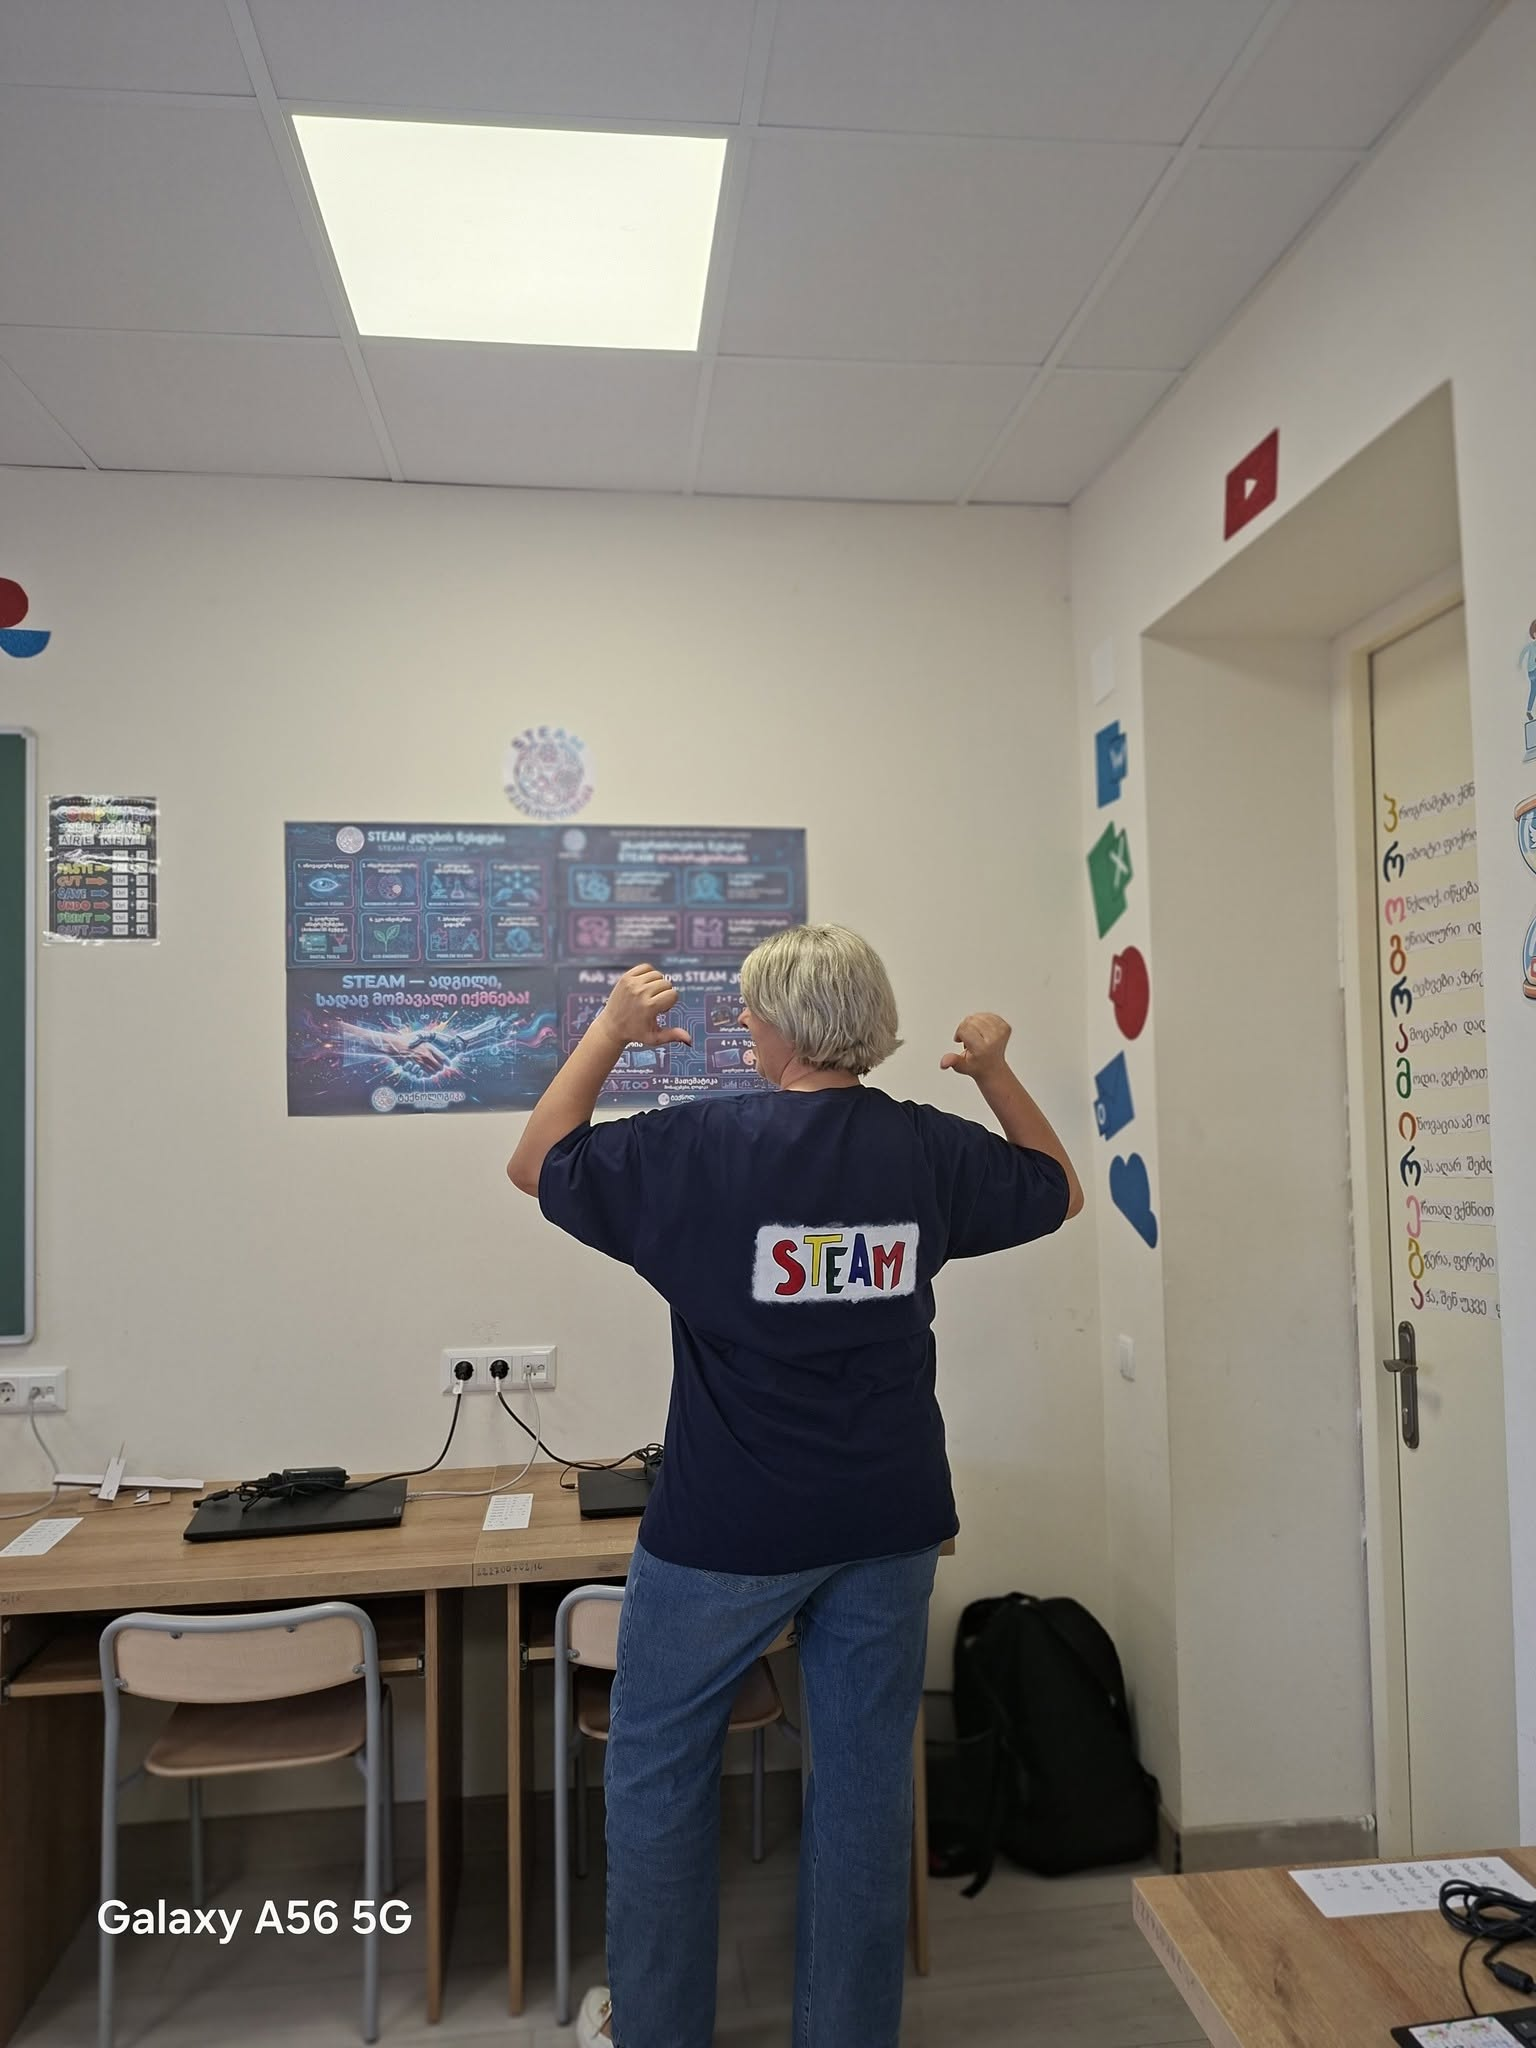
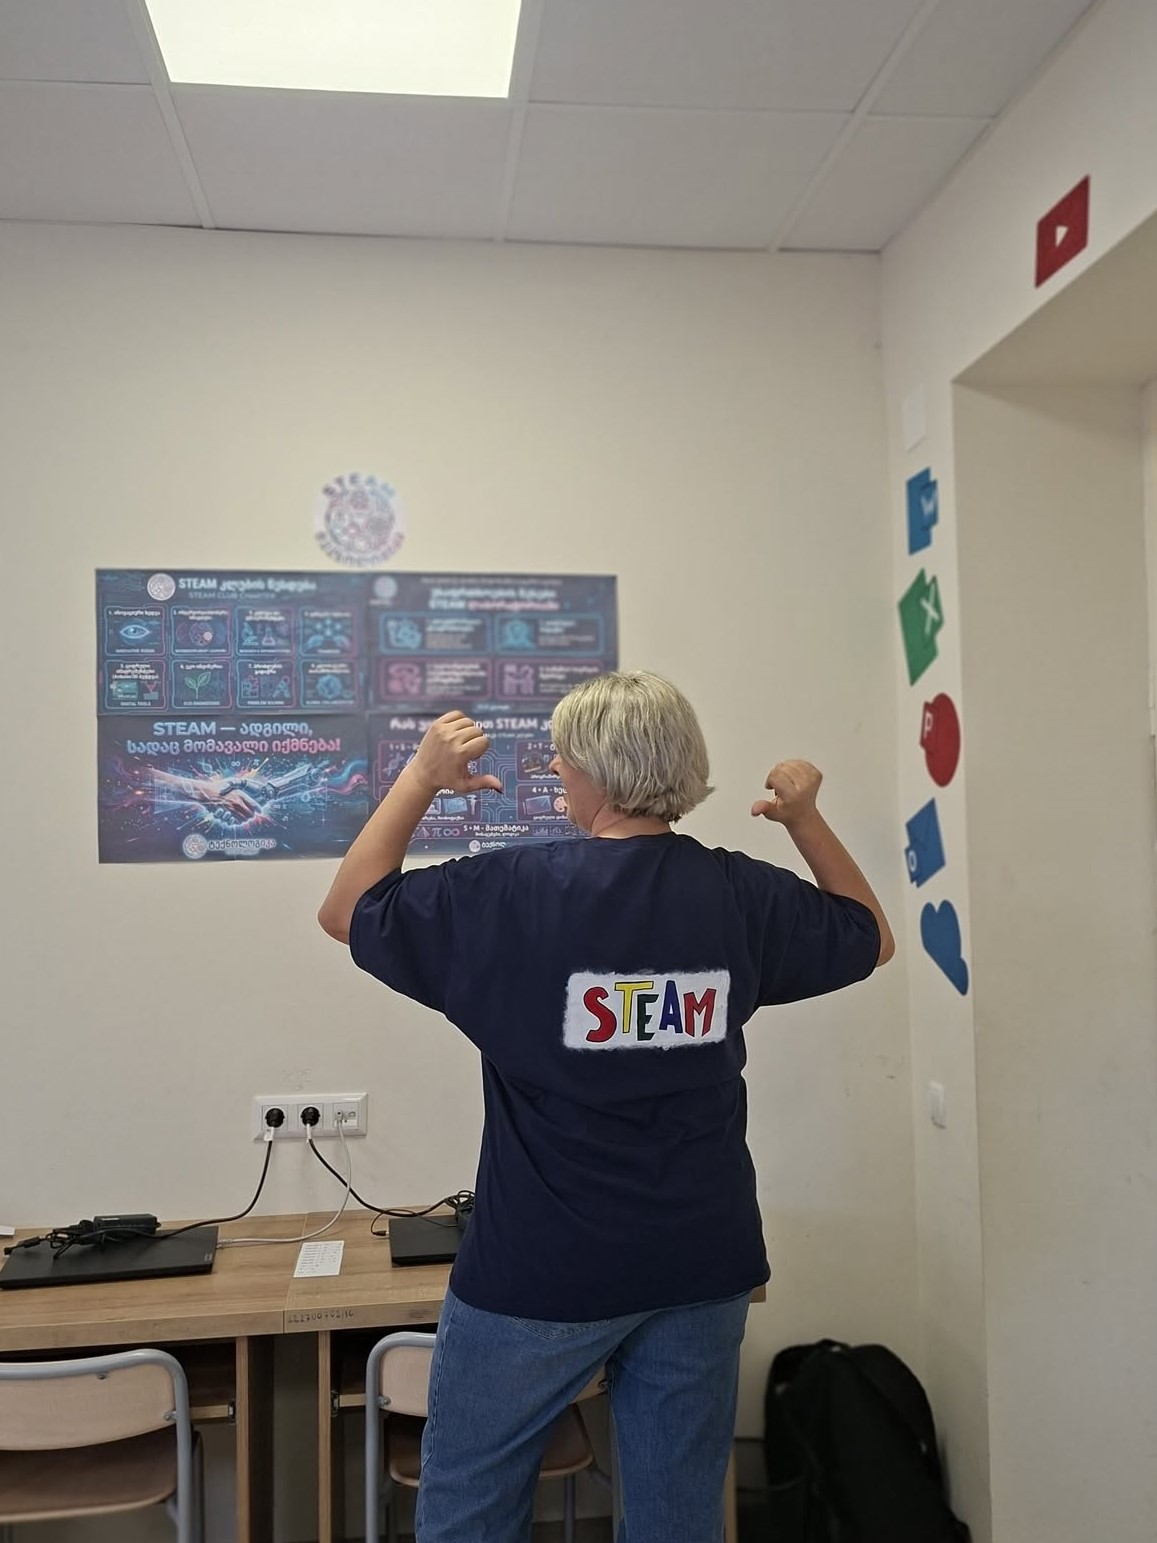
updated

diff --git a/js/main.js b/js/main.js
@@ -5,6 +5,7 @@
 
 const T = {
     ka: {
+        maintitle: "ნატალია გელიტაშვილი",
         home: "მთავარი",
         stem: "STEM კლუბი",
         rob: "რობოტიკის კლუბი",
@@ -16,6 +17,12 @@ const T = {
         h1b: "ტექნოლოგიები",
         h1c: "და ინოვაცია",
 
+        page1: "განათლება / ტექნოლოგია / ინოვაცია",
+
+        section1: "01 / გამოცდილება",
+        section2: "02 / სწავლა და აღმოჩენა",
+        section3: "03 / სიახლეები",
+
         sub: "ნატალია გელიტაშვილი — ტექნოლოგიების მასწავლებელი, STEM და რობოტიკის კლუბების ხელმძღვანელი.",
 
         b1: "ჩემი საქმიანობა",
@@ -23,14 +30,14 @@ const T = {
         photo: "აქ განთავსდება ნატალიას ფოტო (STEM მაისურით)",
 
         s1: "წლიანი სწავლების გამოცდილება",
-        s2: "წელი ტექნოლოგიების სწავლებაში",
-        s3: "მათემატიკის მასწავლებლის გამოცდილება",
+        s2: "წლიანი გამოცდილება ტექნოლოგიების სწავლებაში",
+        s3: "წლიანი გამოცდილება მათემატიკის სწავლებაში",
         s4: "კლუბი: STEM და რობოტიკა",
 
         intro: "მასწავლებელი, რომელიც ტექნოლოგიებს პრაქტიკაში აქცევს",
 
-        g79: "7–9 კლასები",
-        g46: "4–6 კლასები",
+        g79: "VII-IX კლასები",
+        g46: "IV-V-VI კლასები",
 
         latest: "ბოლო სიახლეები",
         empty: "სიახლეები ჯერ არ არის გამოქვეყნებული.",
@@ -46,10 +53,15 @@ const T = {
 
         sent: "შეტყობინება წარმატებით გაიგზავნა.",
         error: "შეცდომა. გთხოვთ, სცადოთ თავიდან.",
-        notConfigured: "სერვისი ჯერ არ არის გამართული."
+        notConfigured: "სერვისი ჯერ არ არის გამართული.",
+
+        stemdesc: "ქიმია · ტექნოლოგია · ინჟინერია · მათემატიკა",
+        robotdesc: "დიზაინი · ინჟინერია · რობოტიკა",
+        view: "გაიცანით კლუბი ↗"
     },
 
     en: {
+        maintitle: "NATALIA GELITASHVILI",
         home: "Home",
         stem: "STEM Club",
         rob: "Robotics Club",
@@ -60,6 +72,12 @@ const T = {
         h1a: "Education,",
         h1b: "Technology",
         h1c: "& Innovation",
+        
+        page1: "EDUCATION / TECHNOLOGY / INNOVATION",
+        
+        section1: "01 / EXPERIENCE",
+        section2: "02 / LEARNING & DISCOVERY",
+        section3: "03 / UPDATES",
 
         sub: "Natalia Gelitashvili — Technology Teacher, STEM and Robotics Club Mentor.",
 
@@ -74,8 +92,8 @@ const T = {
 
         intro: "A teacher who turns technology into hands-on practice",
 
-        g79: "Grades 7–9",
-        g46: "Grades 4–6",
+        g79: "Grades VII-IX",
+        g46: "Grades IV-V-VI",
 
         latest: "Latest news",
         empty: "No news published yet.",
@@ -91,7 +109,11 @@ const T = {
 
         sent: "Your message was sent successfully.",
         error: "An error occurred. Please try again.",
-        notConfigured: "The service is not configured yet."
+        notConfigured: "The service is not configured yet.",
+
+        stemdesc: "SCIENCE · TECHNOLOGY · ENGINEERING · MATHEMATICS",
+        robotdesc: "DESIGN · ENGINEERING · ROBOTICS",
+        view: "Explore club ↗"
     }
 };
 

diff --git a/index.html b/index.html
@@ -20,9 +20,7 @@
     <header>
         <div class="wrap bar">
 
-            <a class="logo" href="index.html">
-                Natalia Gelitashvili<span>.</span>
-            </a>
+            <a class="logo" href="index.html" data-i="maintitle"></a>
 
             <button class="burger" aria-label="Menu" aria-expanded="false">
                 ☰
@@ -76,7 +74,7 @@
 
                 <div class="hero-index">
                     <span>01</span>
-                    <span>EDUCATION / TECHNOLOGY / INNOVATION</span>
+                    <span data-i="page1"></span>
                 </div>
 
             </div>
@@ -89,7 +87,7 @@
             <div class="wrap reveal">
 
                 <div class="section-heading">
-                    <span class="section-label">01 / EXPERIENCE</span>
+                    <span class="section-label" data-i="section1"></span>
                     <h2 data-i="intro"></h2>
                 </div>
 
@@ -126,7 +124,7 @@
         <section class="clubs-section">
 
             <div class="wrap section-heading reveal">
-                <span class="section-label">02 / LEARNING & DISCOVERY</span>
+                <span class="section-label" data-i="section2"></span>
                 <h2 data-i="clubs"></h2>
             </div>
 
@@ -139,9 +137,9 @@
                     <span class="tag" data-i="g79"></span>
 
                     <div class="club-bottom">
-                        <span class="club-description">SCIENCE · TECHNOLOGY · ENGINEERING · MATHEMATICS</span>
+                        <span class="club-description" data-i="stemdesc"></span>
                         <h3>STEM</h3>
-                        <span class="club-link">Explore club ↗</span>
+                        <span class="club-link" data-i="view"></span>
                     </div>
 
                 </a>
@@ -153,9 +151,9 @@
                     <span class="tag" data-i="g46"></span>
 
                     <div class="club-bottom">
-                        <span class="club-description">DESIGN · ENGINEERING · ROBOTICS</span>
+                        <span class="club-description" data-i="robotdesc"></span>
                         <h3>Robotics</h3>
-                        <span class="club-link">Explore club ↗</span>
+                        <span class="club-link" data-i="view"></span>
                     </div>
 
                 </a>
@@ -172,7 +170,7 @@
 
                 <div class="section-heading heading-row">
                     <div>
-                        <span class="section-label">03 / UPDATES</span>
+                        <span class="section-label" data-i="section3"></span>
                         <h2 data-i="latest"></h2>
                     </div>
 

diff --git a/stem.html b/stem.html
@@ -22,7 +22,7 @@
     <header>
         <div class="wrap bar">
 
-            <a class="logo" href="index.html">Natalia Gelitashvili</a>
+            <a class="logo" href="index.html" data-i="maintitle"></a>
 
             <button class="burger" type="button" aria-label="Menu" aria-expanded="false">
                 ☰
@@ -51,8 +51,8 @@
         <section class="page stem">
             <div class="wrap">
                 <h1 data-en="STEM Club">STEM კლუბი</h1>
-                <p data-en="Grades 7–9. A STEM club with group activities, experiments and hands-on projects.">
-                    7–9 კლასები. STEM კლუბი ჯგუფური აქტივობებით, ექსპერიმენტებითა და პრაქტიკული პროექტებით.
+                <p data-en="VII-IX grades. A STEM club with group activities, experiments and hands-on projects.">
+                    VII-IX კლასები. STEM კლუბი ჯგუფური აქტივობებით, ექსპერიმენტებითა და პრაქტიკული პროექტებით.
                 </p>
             </div>
         </section>

diff --git a/robotics.html b/robotics.html
@@ -26,7 +26,7 @@
     <header>
         <div class="wrap bar">
 
-            <a class="logo" href="index.html">Natalia Gelitashvili</a>
+            <a class="logo" href="index.html" data-i="maintitle"></a>
 
             <button class="burger" type="button" aria-label="Menu" aria-expanded="false">
                 ☰
@@ -55,8 +55,8 @@
         <section class="page rob">
             <div class="wrap">
                 <h1 data-en="Robotics Club">Robotics კლუბი</h1>
-                <p data-en="Grades 4–6. A robotics club focused on practical technology activities.">
-                    4–6 კლასები. რობოტიკის კლუბი პრაქტიკული ტექნოლოგიური აქტივობებით.
+                <p data-en="IV-V-VI grades. A robotics club focused on practical technology activities.">
+                    IV-V-VI კლასები. რობოტიკის კლუბი პრაქტიკული ტექნოლოგიური აქტივობებით.
                 </p>
             </div>
         </section>

diff --git a/css/motion.css b/css/motion.css
@@ -43,7 +43,7 @@ html.js .reveal.in h2{clip-path:inset(-.2em -.2em)}
 /* stats */
 .stat{border-left:1px solid var(--line);padding-left:20px}
 html.js .reveal .stat{opacity:0;transform:translateY(30px);transition:.8s}
-html.js .reveal.in .stat{opacity:1;transform:none}
+html.js .reveal.in .stat{opacity:1;transform:none; padding-left: 20px;}
 .stat:nth-child(2){transition-delay:.12s!important}.stat:nth-child(3){transition-delay:.24s!important}.stat:nth-child(4){transition-delay:.36s!important}
 
 /* buttons */

diff --git a/css/docs.css b/css/docs.css
@@ -24,6 +24,7 @@
     display: grid;
     grid-template-columns: auto 1fr auto;
     align-items: center;
+    
     gap: 22px;
     padding: 22px 26px;
     background: #fff;
@@ -45,7 +46,7 @@
 /* Document number */
 
 .doc-n {
-    font: 400 2.2rem/1 "Dachithelynx", sans-serif;
+    font: 400 2.2rem "Dachithelynx", sans-serif;
     font-size: 40px;
     color: transparent;
     background: linear-gradient(135deg, var(--dc1), var(--dc2));

diff --git a/contact.html b/contact.html
@@ -24,7 +24,7 @@
     <header>
         <div class="wrap bar">
 
-            <a class="logo" href="index.html">Natalia Gelitashvili</a>
+            <a class="logo" href="index.html" data-i="maintitle"></a>
 
             <button class="burger" type="button" aria-label="Menu" aria-expanded="false">
                 ☰

diff --git a/css/style.css b/css/style.css
@@ -112,6 +112,7 @@ header.solid {
     letter-spacing: .02em;
     position: relative;
     z-index: 60;
+    margin-top: 8px;
 }
 
 .logo span {
@@ -297,6 +298,7 @@ h2 {
     grid-template-columns: repeat(4, 1fr);
     border-top: 1px solid var(--line);
     margin-top: 50px;
+    padding-left: 10px;
 }
 
 .stats div {

diff --git a/news-detail.html b/news-detail.html
@@ -23,7 +23,7 @@
     <header>
         <div class="wrap bar">
 
-            <a class="logo" href="index.html">Natalia Gelitashvili</a>
+            <a class="logo" href="index.html" data-i="maintitle"></a>
 
             <button class="burger" type="button" aria-label="Menu" aria-expanded="false">
                 ☰

diff --git a/news.html b/news.html
@@ -23,7 +23,7 @@
     <header>
         <div class="wrap bar">
 
-            <a class="logo" href="index.html">Natalia Gelitashvili</a>
+            <a class="logo" href="index.html" data-i="maintitle"></a>
 
             <button class="burger" type="button" aria-label="Menu" aria-expanded="false">
                 ☰

diff --git a/project.html b/project.html
@@ -23,7 +23,7 @@
     <header>
         <div class="wrap bar">
 
-            <a class="logo" href="index.html">Natalia Gelitashvili</a>
+            <a class="logo" href="index.html" data-i="maintitle"></a>
 
             <button class="burger" type="button" aria-label="Menu" aria-expanded="false">
                 ☰

diff --git a/projects.html b/projects.html
@@ -23,7 +23,7 @@
     <header>
         <div class="wrap bar">
 
-            <a class="logo" href="index.html">Natalia Gelitashvili</a>
+            <a class="logo" href="index.html" data-i="maintitle"></a>
 
             <button class="burger" type="button" aria-label="Menu" aria-expanded="false">
                 ☰
